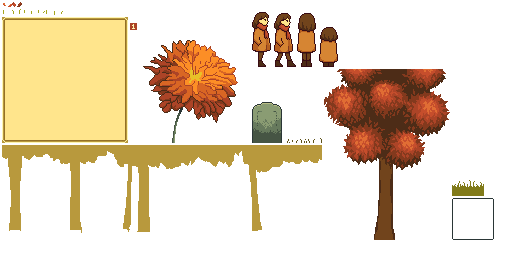
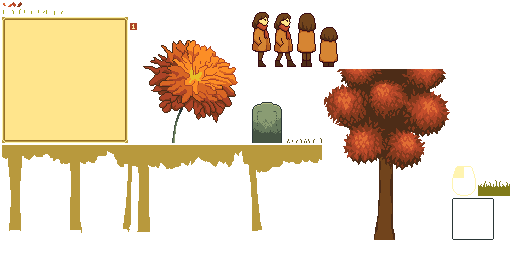
ui

Changed region(s): [[0.875, 0.625, 1.0, 0.7812]]

diff --git a/core/src/main/java/com/distraction/comfyjam1025/screens/PlayScreen.java b/core/src/main/java/com/distraction/comfyjam1025/screens/PlayScreen.java
@@ -8,6 +8,7 @@ import com.distraction.comfyjam1025.Constants;
 import com.distraction.comfyjam1025.Context;
 import com.distraction.comfyjam1025.entity.ImageEntity;
 import com.distraction.comfyjam1025.entity.PuzzlePiece;
+import com.distraction.comfyjam1025.entity.TextEntity;
 
 import java.util.ArrayList;
 import java.util.Collections;
@@ -20,11 +21,23 @@ public class PlayScreen extends Screen {
     private final ImageEntity select;
     private final TextureRegion puzzleBg;
     private final PuzzlePiece[][] puzzle;
-
     private PuzzlePiece selected;
+
+    private final ImageEntity lmb;
+    private final ImageEntity rmb;
+    private final TextEntity swapText;
+    private final TextEntity rotateText;
 
     public PlayScreen(Context context, int year) {
         super(context);
+
+        lmb = new ImageEntity(context, context.getImage("mouse"));
+        lmb.setPosition(270, 115);
+        rmb = new ImageEntity(context, context.getImage("mouse"));
+        rmb.setPosition(270, 55);
+        rmb.hflip = true;
+        swapText = new TextEntity(context, context.getFont(Context.M5X716), "Swap", 270, 135, TextEntity.Alignment.CENTER);
+        rotateText = new TextEntity(context, context.getFont(Context.M5X716), "Rotate", 270, 75, TextEntity.Alignment.CENTER);
 
         select = new ImageEntity(context, context.getImage("selected"));
         puzzleBg = context.getImage("puzzlebg");
@@ -159,12 +172,15 @@ public class PlayScreen extends Screen {
         sb.draw(pixel, 0, 0, Constants.WIDTH, Constants.HEIGHT);
 
         sb.setColor(1, 1, 1, 1);
-        sb.draw(puzzleBg, Constants.WIDTH / 2f - puzzleBg.getRegionWidth() / 2f, Constants.HEIGHT / 2f - puzzleBg.getRegionHeight() / 2f);
+        swapText.render(sb);
+        lmb.render(sb);
+        rotateText.render(sb);
+        rmb.render(sb);
 
+        sb.draw(puzzleBg, Constants.WIDTH / 2f - puzzleBg.getRegionWidth() / 2f, Constants.HEIGHT / 2f - puzzleBg.getRegionHeight() / 2f);
         for (PuzzlePiece[] row : puzzle) {
             for (PuzzlePiece cell : row) cell.render(sb);
         }
-
         if (selected != null) select.render(sb);
 
         in.render(sb);

diff --git a/core/src/main/java/com/distraction/comfyjam1025/entity/Entity.java b/core/src/main/java/com/distraction/comfyjam1025/entity/Entity.java
@@ -26,6 +26,11 @@ public class Entity {
         animation = new Animation();
     }
 
+    public void setPosition(float x, float y) {
+        this.x = x;
+        this.y = y;
+    }
+
     public boolean contains(float x, float y) {
         return contains(x, y, 0, 0);
     }

diff --git a/core/src/main/java/com/distraction/comfyjam1025/entity/PuzzlePiece.java b/core/src/main/java/com/distraction/comfyjam1025/entity/PuzzlePiece.java
@@ -40,6 +40,7 @@ public class PuzzlePiece extends ImageEntity {
         this.col = col;
     }
 
+    @Override
     public void setPosition(float x, float y) {
         this.x = this.destx = x;
         this.y = this.desty = y;
